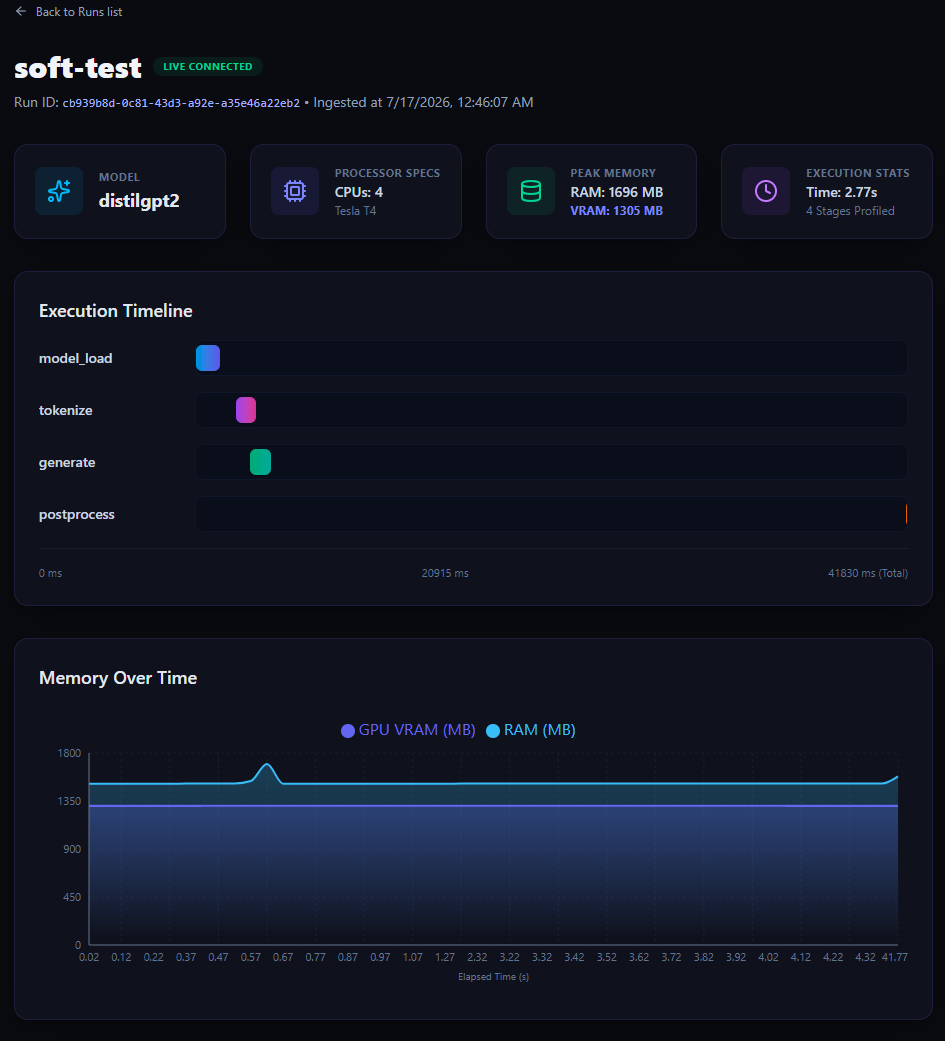
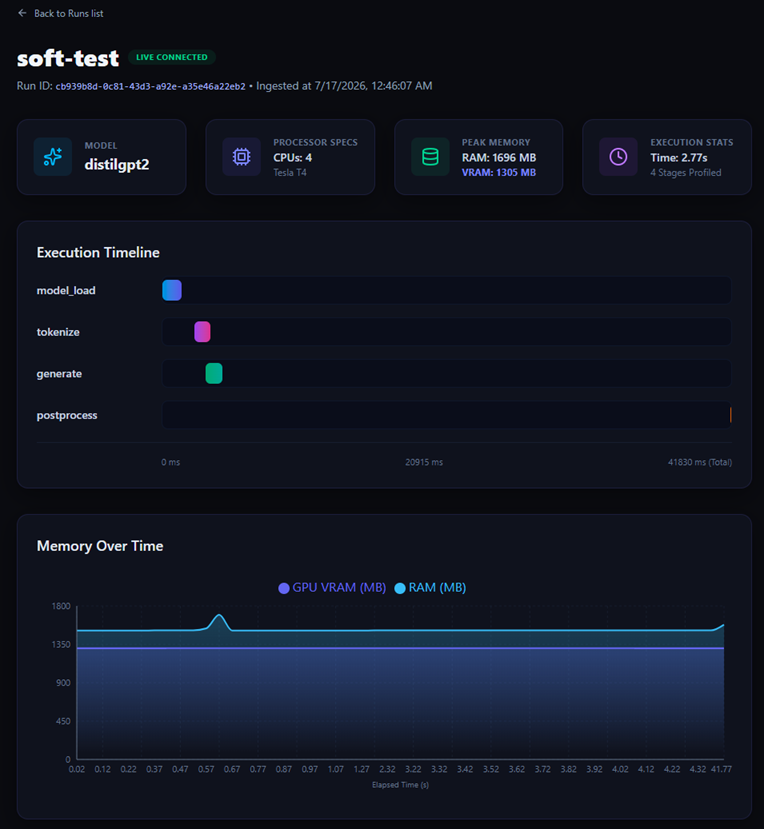
fix: change Execution Stats Time to represent total spanned wall-clock duration to match the timeline total

diff --git a/dashboard/src/app/dashboard/[runId]/page.tsx b/dashboard/src/app/dashboard/[runId]/page.tsx
@@ -100,7 +100,12 @@ export default function RunDetailPage({ params }: PageProps) {
     );
   }
 
-  const totalDuration = run.stages.reduce((acc, s) => acc + s.duration_ms, 0);
+  const startTimes = run.stages.map((s) => new Date(s.start_time).getTime());
+  const endTimes = run.stages.map((s) => new Date(s.end_time).getTime());
+  const minStart = startTimes.length > 0 ? Math.min(...startTimes) : 0;
+  const maxEnd = endTimes.length > 0 ? Math.max(...endTimes) : 0;
+  const totalDuration = maxEnd - minStart || 0;
+
   const peakRam = run.stages.length > 0 ? Math.max(...run.stages.map((s) => s.ram_used_mb)) : 0;
   const peakGpu = run.stages.length > 0 ? Math.max(...run.stages.map((s) => s.gpu_mem_used_mb)) : 0;
 